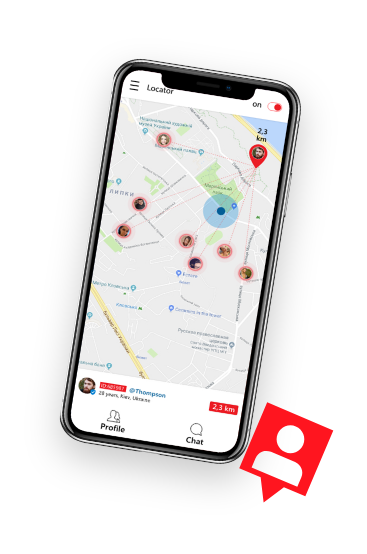
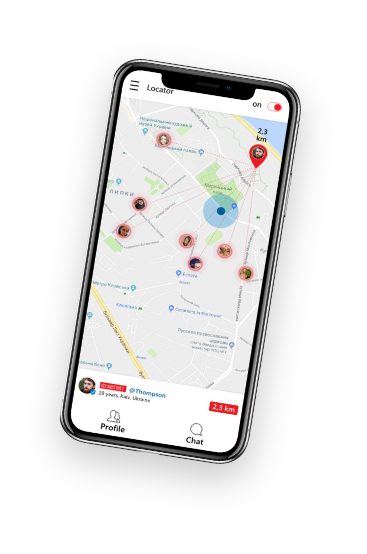
change style

Changed region(s): [[0.6594, 0.7058, 0.9292, 0.9206]]

diff --git a/site2/css/style.css b/site2/css/style.css
@@ -65,15 +65,15 @@ a{
   @keyframes pulsing {
   0% {
     -webkit-transform: scale(0.7, 0.7);
-    transform: scale(1.0, 1.0)
+    transform: scale(0.7, 0.7)
   }
   50% {
     -webkit-transform: scale(1.0, 1.0);
-    transform: scale(1.5, 1.5);
+    transform: scale(1.0, 1.0);
   }
   100% {
     -webkit-transform: scale(0.7, 0.7);
-    transform: scale(1.0, 1.0);
+    transform: scale(0.7, 0.7);
   }
 }
 
@@ -97,13 +97,13 @@ a{
     justify-content: center;
     width: 100%;
     margin: 10px auto 0 auto;
-    animation-name: fadeIn;
+/*    animation-name: fadeIn;
     animation-duration: 4s;
     animation-timing-function: ease-in-out;
-    visibility: visible !important;
+    visibility: visible !important;*/
   }
   
-@keyframes fadeIn {
+/*@keyframes fadeIn {
     0% {
         transform: scale(0);
         opacity: 0.0;       
@@ -119,7 +119,7 @@ a{
         transform: scale(1);
         opacity: 1; 
     }       
-}
+}*/
 
   .buttons-top a:first-child {
     margin-right: 20px;
@@ -415,11 +415,6 @@ a{
     }
 }
 
-  
-
-  .translator img {
-    width: 100%;
-  }
 
   .translator-text {
     padding: 20px;
@@ -437,12 +432,36 @@ a{
     color: #ffffff;
   }
 
+  .translate {
+    position: relative;
+    z-index: 2;
+    animation: translateAnime 5s linear infinite;
+  }
 
+  @keyframes translateAnime {
+    0% {
+      transform: translateX(0);
+    }
+
+    50% {
+      transform: translateX(50px);
+   }
+
+   100% {
+    transform: translateX(0px);
+   }
+  }
+  .mobile3 {
+    position: relative;
+    top: 60px;
+    right: 10px;
+  }
 
 
   /* map-world */
   
   .map-world{
+    position: relative;
     max-width:100%;
     padding:1px;
     background: url(../img/bg-igl4.png) no-repeat center;
@@ -459,9 +478,73 @@ a{
         background-position: -600px 600px /* анимируем свойство background-position */
     }
   }
-  
 
-  .mobile4 {
+
+  .locator1 {
+    position: absolute;
+    top: 120px;
+    animation: locAn 10s linear infinite;
+  }
+
+  @keyframes locAn {
+    0% {
+      transform: translateX(0);
+    }
+
+    50% {
+      transform: translateX(100px);
+    }
+
+    100% {
+      transform: translateX(0);
+    }
+  }
+
+
+  .locator2 {
+    position: absolute;
+    top: 5px;
+    right: 30px;
+    animation: loc2An 5s linear infinite;
+  }
+
+  @keyframes loc2An {
+    0% {
+      transform: translateY(0);
+    }
+
+    50% {
+      transform: translateY(50px);
+    }
+
+    100% {
+      transform: translateY(0);
+    }
+  }
+
+
+  .locator3 {
+    position: absolute;
+    top: 170px;
+    right: 40px;
+    animation: loc3An 5s linear infinite;
+  }
+
+  @keyframes loc3An {
+    0% {
+      transform: translateX(0);
+    }
+
+    50% {
+      transform: translateX(50px);
+    }
+
+    100% {
+      transform: translateX(0);
+    }
+  }
+
+/*  .mobile4 {
     animation-duration: 5s;
     animation-iteration-count: infinite;
     transform-origin: top;
@@ -476,12 +559,7 @@ a{
     0%   { transform: translateY(0); }
     50%  { transform: translateY(-50px); }
     100% { transform: translateY(0); }
-}
-
-
-  .map-world img {
-    width: 100%;
-  }
+}*/
 
   .map-world_text {
     margin-top: -110px;

diff --git a/site2/index.html b/site2/index.html
@@ -67,8 +67,9 @@
 
 <div class="translator">
    <div class="translator-bg">
-        <img src="img/igl-mobile3.png" alt="">
+        <img src="img/igl-mobile3.png" height="516" width="325" alt="" class="mobile3">
        <div class="translator-text">
+            <img src="img/translate.png" height="74" width="74" alt="" class="translate">
            <h3>BUILT-IN CHAT </br>TRANSLATOR</h3>
            <p>It gives you an easy way to communicate with people internationally and speak easy with a tap of your finger directly in chat</p>
        </div>
@@ -79,7 +80,10 @@
 <!-- map word -->
 
 <div class="map-world">
-    <img src="img/igl-mobile4.png" alt="" class="mobile4 anim-mobile4">
+    <img src="img/locator.png" alt="" class="locator1">
+    <img src="img/igl-mobile4.png" alt="" class="mobile4 anim-mobile4" width="367" height="554">
+    <img src="img/locator.png" alt="" class="locator2">
+    <img src="img/locator.png" alt="" class="locator3">
     <div class="map-world_text">
         <h3>WORLD MAP </br>LOCATOR</h3>
         <p>Will help you to find people nearby and show yourself on a world map with social connections between users and followers</p>
